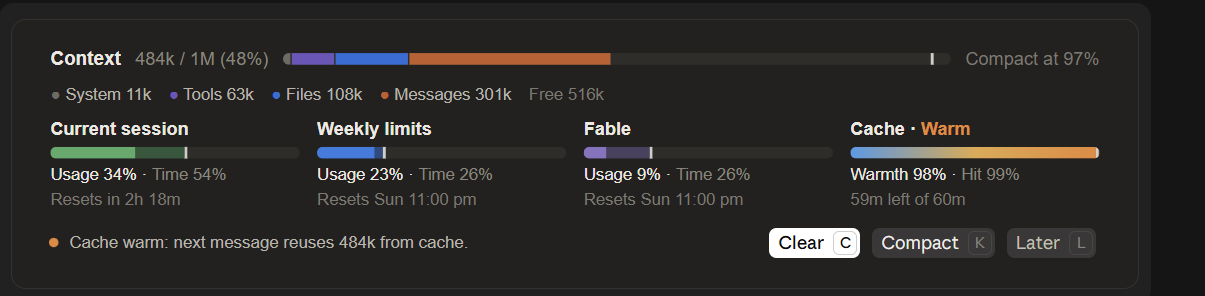
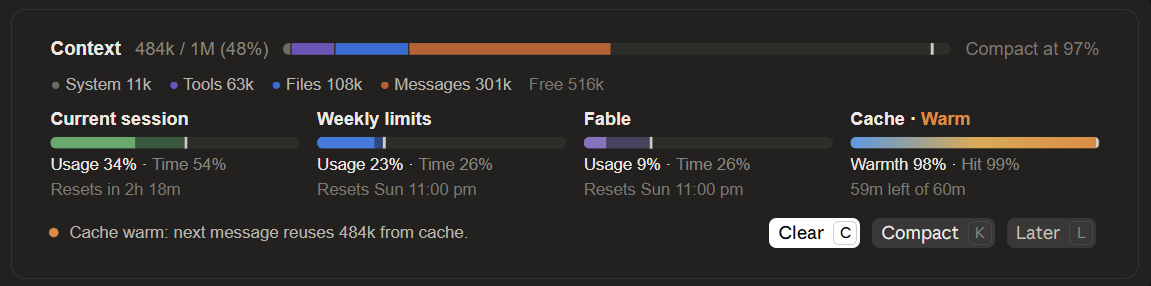
Publish only what the mod and its README need
The tests and the docs/ card renderer stay on disk but leave the repo, and the
README no longer points at them. wide-real.png is the screenshot the README
text describes. A code comment no longer mentions the handoff.

diff --git a/hooks/model.ts b/hooks/model.ts
@@ -366,7 +366,7 @@ export function cacheView(cache: ContextCacheCache, now: number): CacheView {
   }
 }
 
-/** The notice line's copy, per the handoff. Null when there is nothing to say. */
+/** The notice line's copy. Null when there is nothing to say. */
 export function noticeText(cache: CacheView, context: ContextCacheContext | null, ttlMs: number): string | null {
   if (cache.state === 'empty' || !context) return null
   const tokens = fmtTokens(context.used)

diff --git a/README.md b/README.md
@@ -113,12 +113,7 @@ Check it with:
 
 ```
 claude plugin validate .
-claude plugin test .
 ```
-
-`tests/scenarios.test.tsx` feeds the four design scenarios in through the real engine calls (`session.usage`, the usage endpoint, `turn.complete`, a resumed session) and checks each at 900, 620, 420 and 320 px on the terminal and the desktop, plus the Clear, Compact and Later buttons. `tests/edges.test.tsx` covers what goes wrong in practice. Nothing read yet, a 429 from the account endpoint, a window past 100%, a missing reset time, a 5-minute TTL, bands 20 and 400 cells wide, and every SVG staying well formed and under the host's 128 KB limit. 69 tests in all.
-
-`scripts/cards.mts` renders the four width cards in `docs/` from the mod's own drawing code. When the design or the copy changes, `cd scripts && npm install && npm run cards` redraws them.
 
 `hooks/register.tsx` holds the hooks: data collection, the commands and the band. `hooks/model.ts` is the maths, thresholds and copy, with no drawing in it. `hooks/view.tsx` draws the terminal version in cells and the desktop version as the SVG panel plus the host's buttons. `hooks/panel-svg.ts` lays the design out as SVG at its real pixel sizes, measuring text with the font widths in `hooks/metrics.ts`. `types/index.d.ts` is the mod's `$.state` contract.
 
